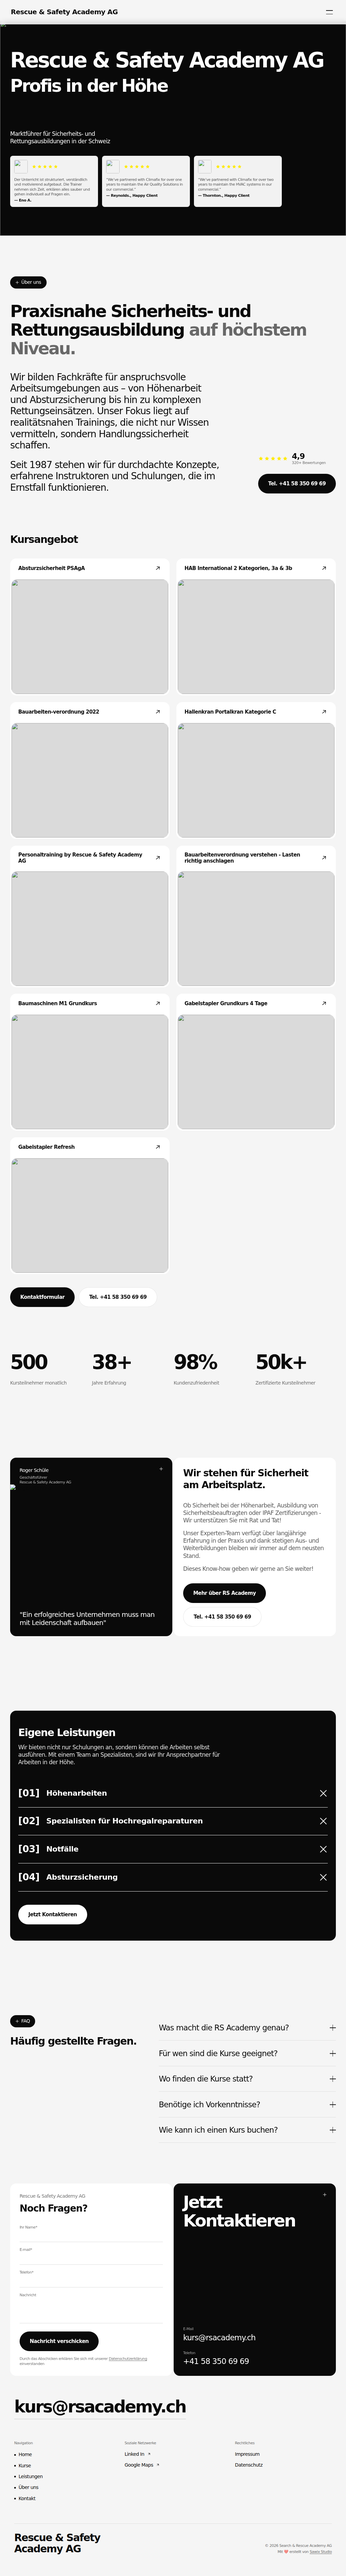
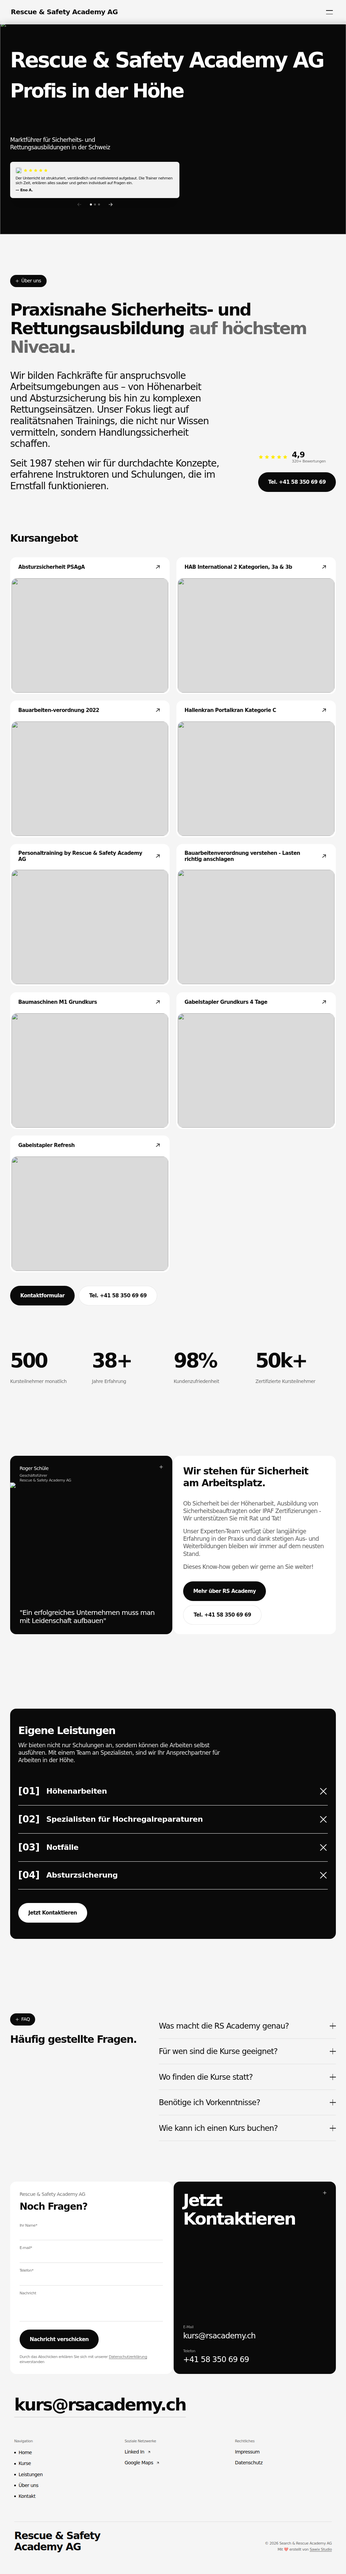
Hero: Bewertungen als Slider statt nebeneinander
Das Original zeigt im Hero eine Bewertungskarte (463px) mit Pfeilen und drei
Bullet-Punkten, nicht drei Karten nebeneinander. Karten liegen im Raster
übereinander, damit die Höhe der längsten gilt.

Außerdem: Rasterumbrüche greifen jetzt wie im Original ab Tablet (810px)
statt erst ab Desktop, FAQ-Label von der Headline getrennt, Wort-Abstände
im Wort-für-Wort-Reveal korrigiert, dunkle Fallback-Flächen hinter den
Hintergrundbildern.

Claude-Session: https://claude.ai/code/session_01U7HPVKtHou9zGPYNtcHs8d

diff --git a/src/scripts/motion.ts b/src/scripts/motion.ts
@@ -89,6 +89,40 @@ function initAccordions() {
   });
 }
 
+/** Bewertungs-Slider im Hero. */
+function initReviewSlider() {
+  document.querySelectorAll<HTMLElement>("[data-review-slider]").forEach((root) => {
+    const slides = root.querySelectorAll<HTMLElement>("[data-review-slide]");
+    const dots = root.querySelectorAll<HTMLElement>("[data-review-dot]");
+    const prev = root.querySelector<HTMLButtonElement>("[data-review-prev]");
+    const next = root.querySelector<HTMLButtonElement>("[data-review-next]");
+    if (slides.length < 2) return;
+
+    let index = 0;
+
+    const show = (to: number) => {
+      index = (to + slides.length) % slides.length;
+      slides.forEach((slide, i) => {
+        const active = i === index;
+        slide.classList.toggle("opacity-100", active);
+        slide.classList.toggle("opacity-0", !active);
+        slide.classList.toggle("pointer-events-none", !active);
+        slide.setAttribute("aria-hidden", String(!active));
+      });
+      dots.forEach((dot, i) => {
+        dot.classList.toggle("opacity-100", i === index);
+        dot.classList.toggle("opacity-30", i !== index);
+      });
+      prev?.classList.toggle("opacity-30", index === 0);
+      prev?.classList.toggle("opacity-100", index !== 0);
+    };
+
+    prev?.addEventListener("click", () => show(index - 1));
+    next?.addEventListener("click", () => show(index + 1));
+    show(0);
+  });
+}
+
 /** Kontaktformular: noch kein Backend angebunden. */
 function initContactForm() {
   document.querySelectorAll<HTMLFormElement>("[data-contact-form]").forEach((form) => {
@@ -103,6 +137,7 @@ function init() {
   initReveal();
   initCounters();
   initAccordions();
+  initReviewSlider();
   initContactForm();
 }
 

diff --git a/docs/analyse.md b/docs/analyse.md
@@ -61,7 +61,7 @@ Framer-Preset → Klasse in `src/styles/global.css`, Werte je Breakpoint (Deskto
 ## Sections in Reihenfolge
 
 1. **Header** — fixed, Logo + Navigation, Burger unterhalb Desktop
-2. **Hero** — Vollbild, Hintergrundbild + dunkles Overlay, Firmenname, „Profis in der Höhe", Claim, 3 Bewertungskarten
+2. **Hero** — Vollbild, Hintergrundbild + dunkles Overlay, Firmenname, „Profis in der Höhe", Claim, Bewertungs-Slider (3 Karten, Pfeile + Bullets; Karte 463px, Wrapper 501px)
 3. **Einleitung** — Label „Über uns", H1, zwei Fließtexte (Wort-für-Wort-Reveal), Bewertung 4,9 / 320+, Telefon-Button
 4. **Kursangebot** — 9 Karten im 2-Spalten-Raster, darunter zwei Buttons
 5. **Numbers** — 4 Zähler
@@ -85,6 +85,7 @@ Framer-Preset → Klasse in `src/styles/global.css`, Werte je Breakpoint (Deskto
 | Zähler | Scroll | Hochzählen von 0 |
 | Portrait (Bento) | Scroll | `perspective(1200px) translateY(-40px) scale(1.15)` |
 | Akkordeon | Klick | Öffnen/Schließen, Plus-Icon dreht |
+| Bewertungs-Slider | Klick | Karte wechselt, aktiver Bullet `opacity 1`, inaktiv `0.3` |
 
 ## Bekannte Lücken
 
